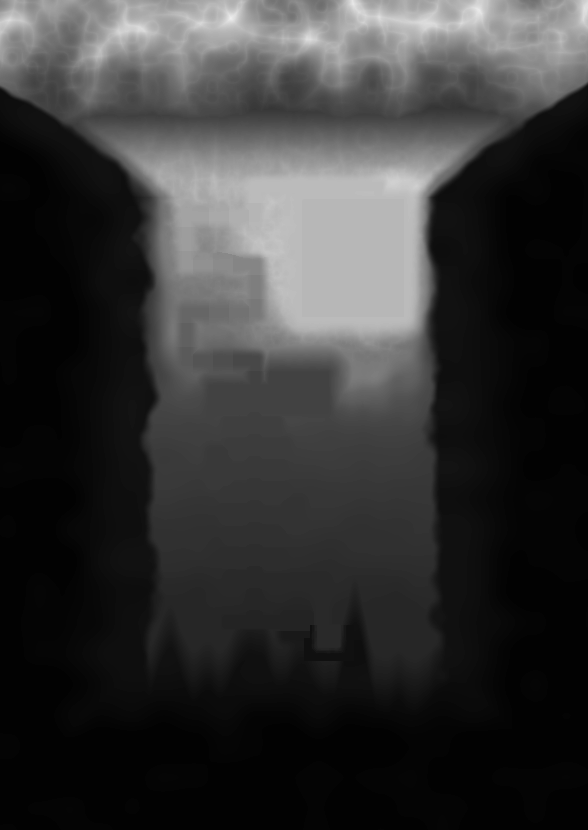
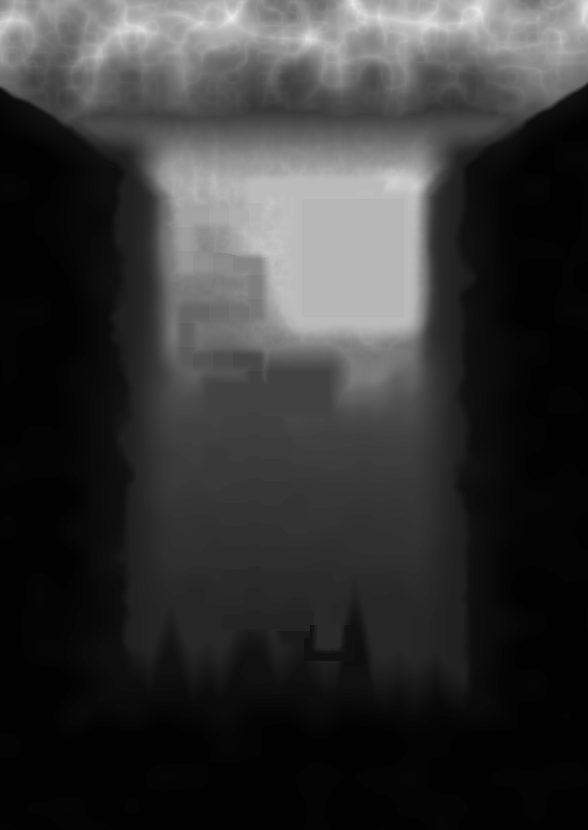
feat(foot-of-the-mountain): east and west the land falls to the sea past the walk region
From the walk region's east and west edges the land ran level to a cliff
some 25 blocks out, and the eye at the edge (276, 80.6, 300) saw the cliff
top against the sky: the sea below it only shows past 179 blocks, beyond
the 160-block render-distance fog. The coast frame now stands 70 blocks
past the walk region, and the land falls from the walk region's edge to
y 60 over 55 blocks (z >= 40; the mainland north of the neck is
untouched), so the shore lies about 43 blocks out (x ~ 324 and ~ 0 at
z 300) and the sea shows from about 58 blocks out to the fog. The seabed
falls away from that coast.

Inside the walk region, z >= 40: 133 columns change, all outside every
box's footprint and ring (the frame's edge term near x 44 and 281); no
box, ring or placement moves. Only the terrain section of plan.py
changed.

diff --git a/campaigns/foot-of-the-mountain/design/generator/plan.py b/campaigns/foot-of-the-mountain/design/generator/plan.py
@@ -882,11 +882,25 @@ def mainland(x, z):
     return min(198.0, 58 + t * (30 + 110 * r) + (fbm(x, z, 30, 3, 93) - 0.5) * 12)
 
 
-def offshore(x, z):
-    """How far a column lies out to sea past the island's frame or the
-    mainland's coast; 0 inside them."""
+# East and west the land runs on past the walk region and falls to the sea
+# over LAND_FALL blocks, so from the walk region's edge the ground drops away
+# in front of the player and the sea shows beyond it, rather than a cliff top
+# against the sky; the coast frame stands COAST_OUT past the walk region.
+COAST_OUT, LAND_FALL = 70, 55
+
+
+def coast(z):
+    """The coast frame at row z: the island's frame grown past the walk region
+    east and west, opening out north of the neck as the island's does."""
     lo, hi = shores(z)
-    return max(lo - x, x - hi, z - (RZ - 1), 0.0)
+    return min(lo, WALK[0] - COAST_OUT), max(hi, WALK[1] + COAST_OUT)
+
+
+def offshore(x, z):
+    """How far a column lies out to sea past the island's coast or the
+    mainland's; 0 inside them."""
+    lo, hi = coast(z)
+    return max(lo + 25 - x, x - (hi - 25), z - (RZ - 1), 0.0)
 
 
 def land(x, z):
@@ -947,7 +961,7 @@ def base_height(x, z):
     the shore so the waterline follows the coast's coves and points, falling
     to the sea floor; cliffs only on the far coasts."""
     wob = (fbm(x, z, 40, 3, 1) - 0.5) * 30
-    lo, hi = shores(z)
+    lo, hi = coast(z)
     inset = min(x - lo, hi - x) + wob
     edge = smooth((inset - 10) / 14)
     h_m, h_s = mountain(x, z), max(slope(x, z), 64.5)
@@ -959,6 +973,12 @@ def base_height(x, z):
         fall = smooth(1 - (Z_NECK - z) / 110)
         h = min(h, 66 + (h - 66) * fall)
         h = max(h, mainland(x, z))
+    # past the walk region east and west the land falls to the sea; north of
+    # the neck the mainland goes on
+    out = max(WALK[0] - x, x - WALK[1], 0)
+    if out > 0:
+        drop = smooth(out / LAND_FALL) * smooth((z - (Z_NECK - 80)) / 40)
+        h -= (h - 60) * drop
     shore = 62.5 + 0.35 * (coast_z(x) + wob * 0.3 - z)   # a beach rising from the waterline
     # the seabed: as it was inside the frame, falling away out to sea
     sea_floor = max(41.0, 50 + (vnoise(x, z, 31, 4) - 0.5) * 4 - 9 * smooth(offshore(x, z) / 80))
